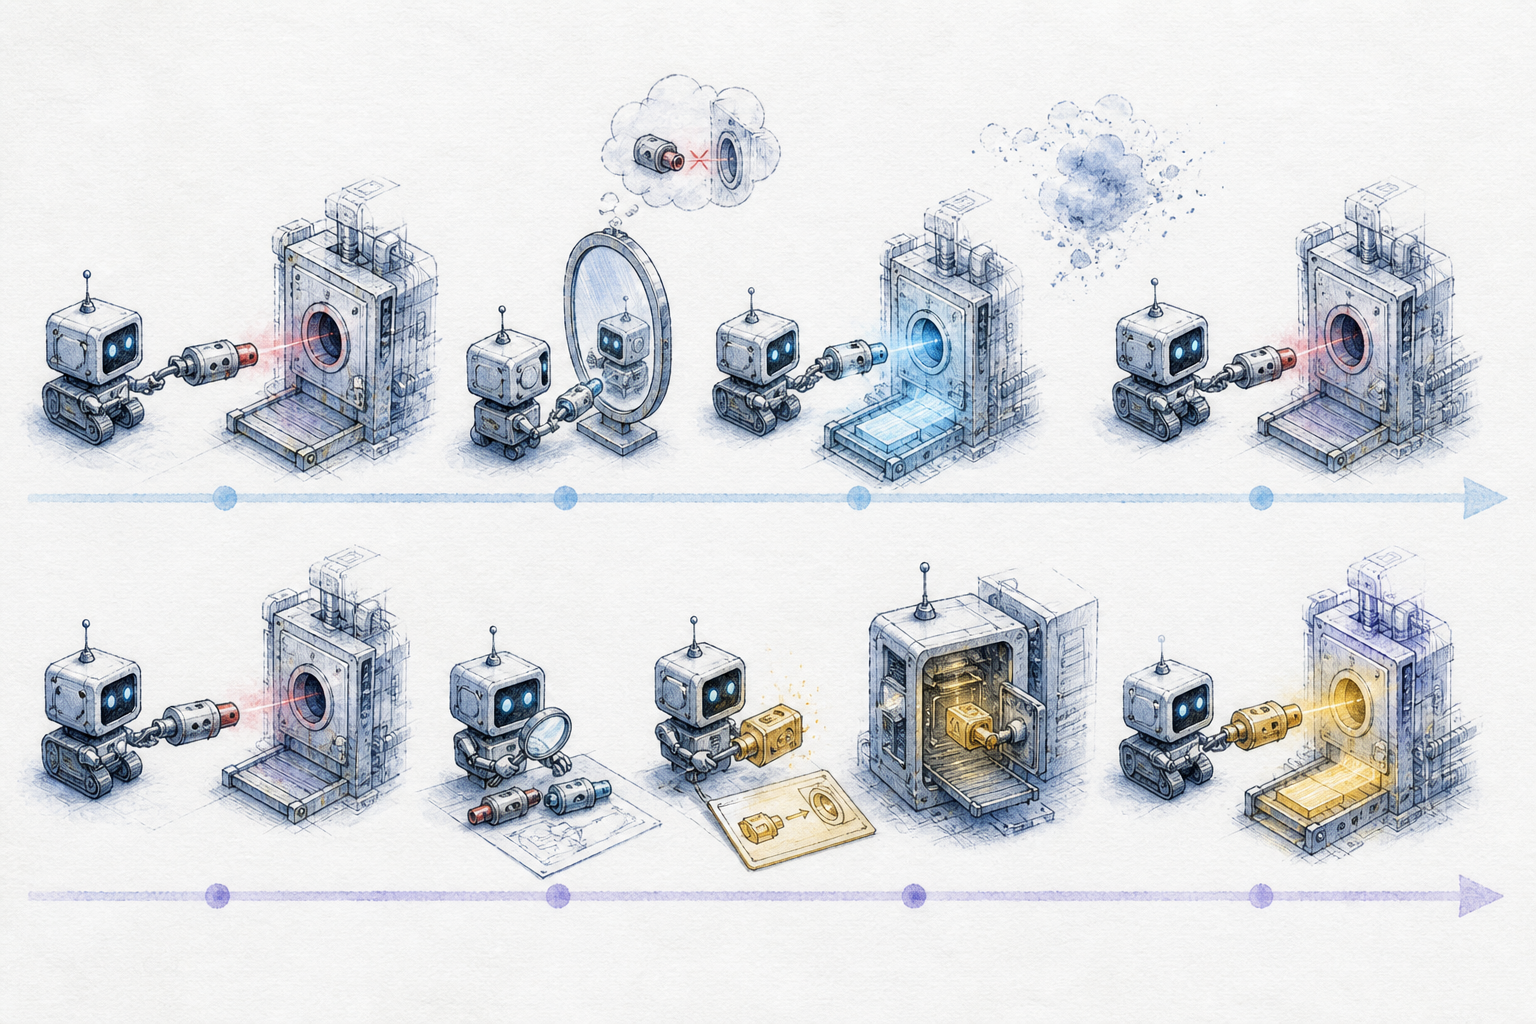
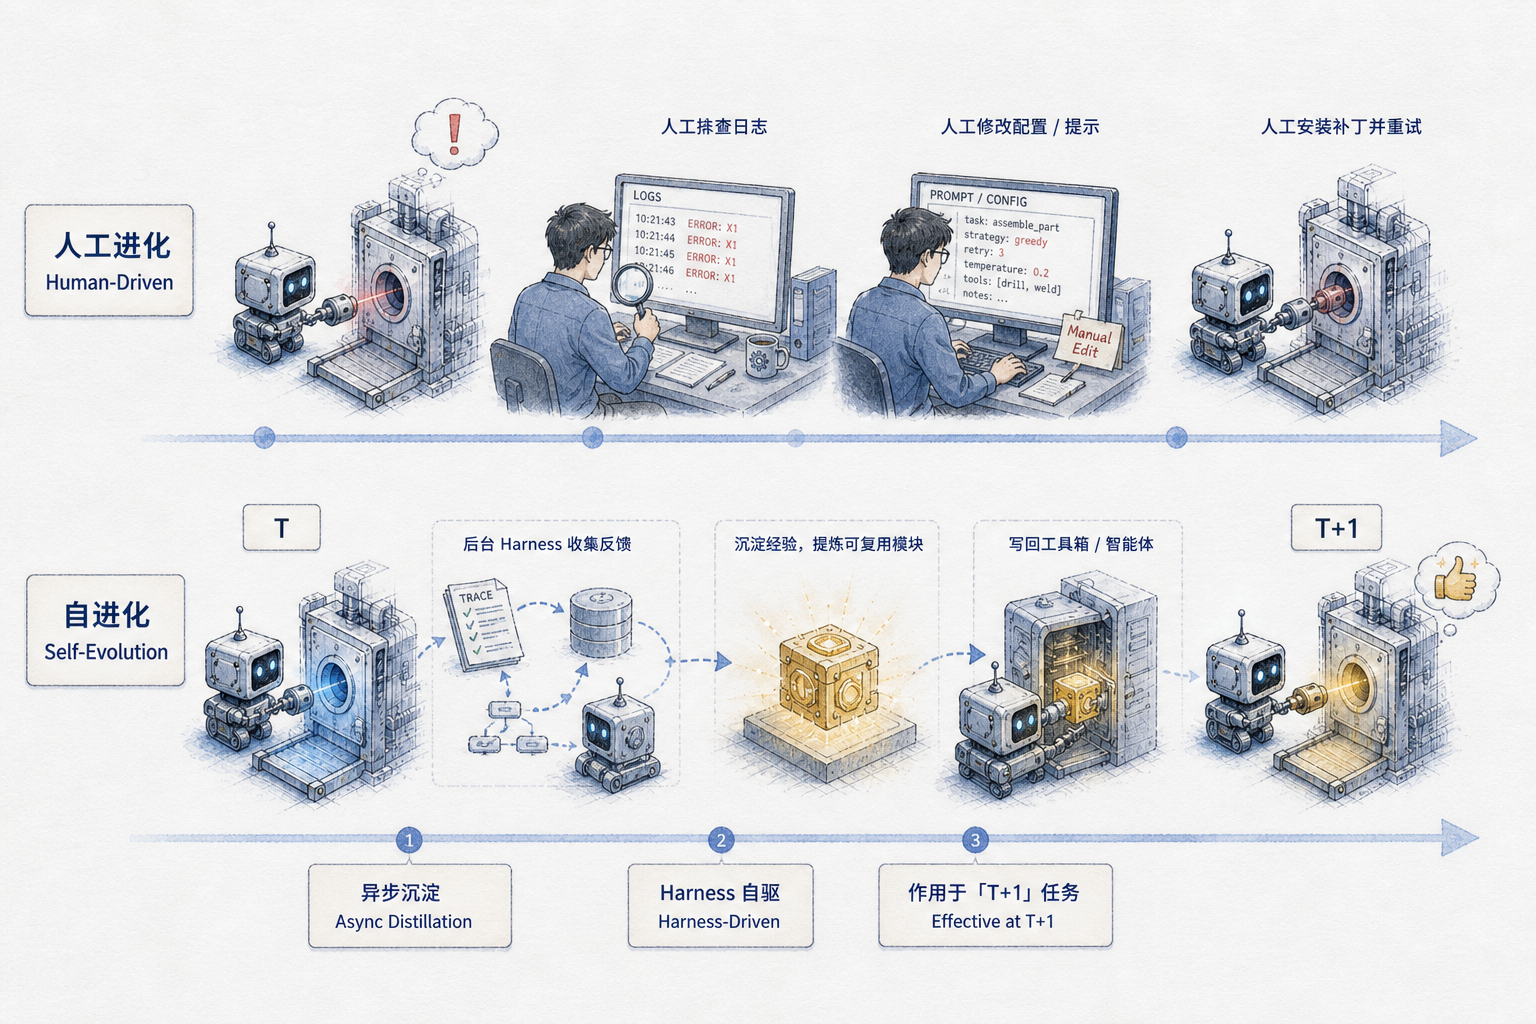
Expand self-evolution sections and update dev port

diff --git a/web/components/harness/self-evolution-sections.tsx b/web/components/harness/self-evolution-sections.tsx
@@ -61,36 +61,74 @@ const SECTIONS: Section[] = [
   {
     id: 'se-vs-reflection',
     eyebrow: 'Self-Evolution · 02',
-    title: 'Reflection ≠ 自进化',
+    title: '自进化 vs 人工进化',
     intro:
-      'Reflection 和 Self-Evolution 的区别非常重要——这两个东西，根本就不是一个层级。',
+      '自进化和人工进化的区别非常重要——这两个东西，根本就不是一个层级。',
     points: [
       {
-        zh: 'Reflection 解决「这一次」',
-        en: 'Fix This Task',
-        desc: 'Agent 调错了一个 API，发现参数传错了，想了一下、换另一个参数、调用成功——发现错了，反思一下再改，仅此而已。',
+        zh: '异步沉淀',
+        en: 'Async Distillation',
+        desc: '经验的沉淀不发生在任务执行期间，而是在任务结束后由后台流程异步完成——复盘、蒸馏、写回，不阻塞下一次执行。',
       },
       {
-        zh: '同样的问题下次还会再犯',
-        en: 'No Accumulation',
-        desc: '如果下一次遇到同样的问题，它又从头重新反思一遍——其实它根本没有进化。',
+        zh: 'Harness 自驱',
+        en: 'Harness-Driven',
+        desc: '驱动进化的不是工程师手动改 prompt、调参数，而是 Harness 自己收集反馈、提炼经验并写回——人是把关者，不是流水线上的工人。',
       },
       {
-        zh: '自进化解决「下一次」',
-        en: 'Fix Forever',
-        desc: '拿到错误以后理解为什么错、知道怎么去改，然后做最关键的一步：改完以后永久保存。',
+        zh: '作用于「T+1」任务',
+        en: 'Effective at T+1',
+        desc: '进化的收益不体现在当前任务，而是下一次同类任务——同样的坑，T+1 时刻的 Agent 不会再踩第二次。',
       },
     ],
     image: {
       src: '/harness/reflection-vs-self-evolution.png',
-      alt: '两条时间线对比 Reflection 的临时修复与自进化的永久保存',
+      alt: '人工进化与自进化两条时间线对比：异步沉淀、Harness 自驱，并作用于 T+1 任务',
       caption:
-        '上方时间线中，Agent 通过 Reflection 修好了当前接口错误，但经验随任务结束而消失，下一次仍会重犯；下方时间线把正确适配器与规则保存进自身，因此再次遇到同类任务时可以直接成功。',
+        '上方时间线依赖工程师人工排查日志、修改配置并安装补丁；下方时间线由 Harness 在任务结束后异步收集反馈、蒸馏经验并写回可复用资产，让更新后的能力在 T+1 任务中生效。',
     },
   },
   {
-    id: 'se-layers',
+    id: 'se-reward-driven',
     eyebrow: 'Self-Evolution · 03',
+    title: '奖励信号驱动',
+    intro:
+      '人写的 Skill 不一定是最适合 AI 的——更可行的思路是目标导向加专家评审：AI 负责写，人负责评，奖励信号驱动 Skill 一轮轮迭代到达标。',
+    points: [
+      {
+        zh: '专家角色：从 Skill 编写者到评审者',
+        en: 'Expert as Reviewer',
+        desc: '过去专家知识靠人拆解场景、总结成 Skill 的知识体系，里面藏着大量人工。现在构建好目标测试集，由 AI 去编写 Skill，人只给出评审意见，AI 根据意见反复调整 Skill，直到指标满足要求——人不再需要关心 Skill 怎么写。',
+      },
+      {
+        zh: 'Harness 角色：识别奖励信号并自我迭代',
+        en: 'Detect & Self-Iterate',
+        desc: 'Harness 要从历史轨迹里识别正反馈与负反馈：踩坑的过程——报错、参数问题、框架选型失误——都是负反馈；还有来自人工评审的意见，比如风格要改成什么样、按钮要放在什么位置，同样是驱动迭代的奖励信号。',
+      },
+    ],
+  },
+  {
+    id: 'se-expert-driven',
+    eyebrow: 'Self-Evolution · 04',
+    title: '专家知识驱动',
+    intro:
+      'Skill 是有保质期的——企业的规范经常更新，Skill 就跟着老化。区别在于：老化的 Skill，是等人来修，还是自己长出新版本。',
+    points: [
+      {
+        zh: '被动更新：等人发现，等人改',
+        en: 'Manual Patch',
+        desc: '企业规范一更新，存量 Skill 就过时了。被动模式下只能靠人主动发现结果不对、再手动去改规范、改 Skill——滞后、易漏，改完也只覆盖被注意到的那几处。',
+      },
+      {
+        zh: '自进化：专家提一次，Harness 自己改',
+        en: 'Expert-Seeded, Self-Driven',
+        desc: '头一次使用时，专家发现结果不符合新规范、把问题指出来——模型自己把这次反馈总结成规则，主动触发 Skill 的更新。沉淀只需发生一次，之后的每一次执行都直接生效。',
+      },
+    ],
+  },
+  {
+    id: 'se-layers',
+    eyebrow: 'Self-Evolution · 05',
     title: 'Agent 到底在进化什么？',
     intro:
       '不是让 AI 自己去训练自己——模型参数的更新只是其中最重的一种。更现实的 Agent 自进化，至少可以分成五层。',
@@ -130,7 +168,7 @@ const SECTIONS: Section[] = [
   },
   {
     id: 'se-hermes',
-    eyebrow: 'Self-Evolution · 04',
+    eyebrow: 'Self-Evolution · 06',
     title: 'Hermes：经验是怎么沉淀的？',
     intro:
       '自进化不是纸面概念——Nous Research 的开源 Agent 系统 Hermes 已经把经验沉淀做成了 Learning Loop，每次会话的经验都在后台被自动蒸馏成可复用资产。Continual-Harness 论文（arXiv:2605.09998）把这类闭环形式化，并把 Hermes 列为 assistant 任务的典型参照。',
@@ -170,7 +208,7 @@ const SECTIONS: Section[] = [
  */
 const FLYWHEEL_SECTION: Section = {
   id: 'se-flywheel',
-  eyebrow: 'Self-Evolution · 05',
+  eyebrow: 'Self-Evolution · 07',
   title: '经验飞轮：越工作越聪明的 Agent',
   intro:
     '真正的 Agent 应该形成它的经验飞轮——这也是未来判断一个 Agent 聪不聪明的新标准。',
@@ -596,7 +634,7 @@ export function SelfEvolutionFlywheelSection() {
  */
 const DATA_FLYWHEEL_SECTION: Section = {
   id: 'data-flywheel',
-  eyebrow: 'Self-Evolution · 06',
+  eyebrow: 'Self-Evolution · 08',
   title: '数据飞轮：Harness 专家知识层和 Model 轨迹数据积累',
   intro:
     '从数据的角度来看，要沉淀两类数据：一类是 Harness 的专家知识层，另一类是专家真实使用沉淀下来的高质量种子轨迹数据。',

diff --git a/web/components/toc-rail.tsx b/web/components/toc-rail.tsx
@@ -19,7 +19,9 @@ const TOC_ITEMS = [
   { id: 'skill-asset', label: 'Skill 即资产' },
   { id: 'se-questions', label: '自进化之问' },
   { id: 'se-what', label: 'T+1 的问题' },
-  { id: 'se-vs-reflection', label: 'Reflection vs 自进化' },
+  { id: 'se-vs-reflection', label: '自进化 vs 人工进化' },
+  { id: 'se-reward-driven', label: '奖励信号驱动' },
+  { id: 'se-expert-driven', label: '专家知识驱动' },
   { id: 'se-layers', label: '进化的五层' },
   { id: 'se-hermes', label: 'Hermes 实例' },
   { id: 'cordis', label: 'Cordis 时空可组合' },

diff --git a/README.md b/README.md
@@ -15,7 +15,7 @@ pnpm install
 pnpm dev
 ```
 
-启动后访问 http://localhost:3000 。开发模式支持热更新，改动 `web/components/` 下的内容文件（如大纲章节数据 `web/components/outline/sections/*.ts`）保存后页面自动刷新。
+启动后访问 http://localhost:9357 。开发模式支持热更新，改动 `web/components/` 下的内容文件（如大纲章节数据 `web/components/outline/sections/*.ts`）保存后页面自动刷新。
 
 ## 其他常用命令
 
